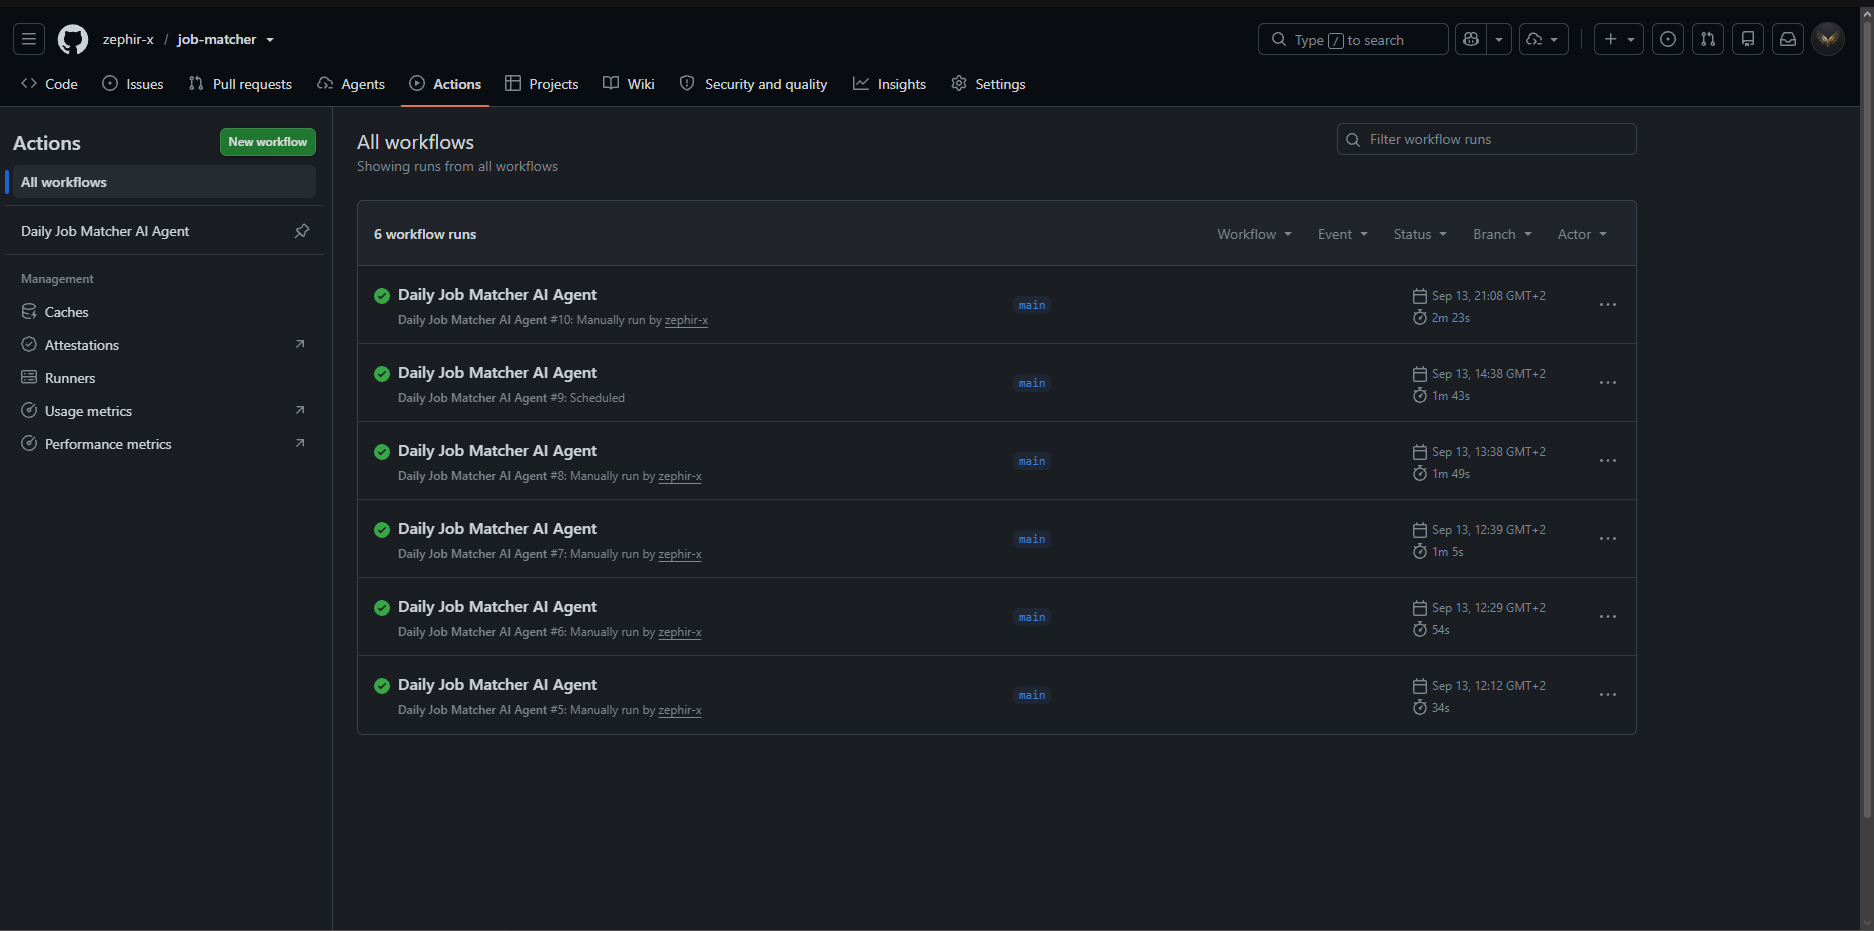
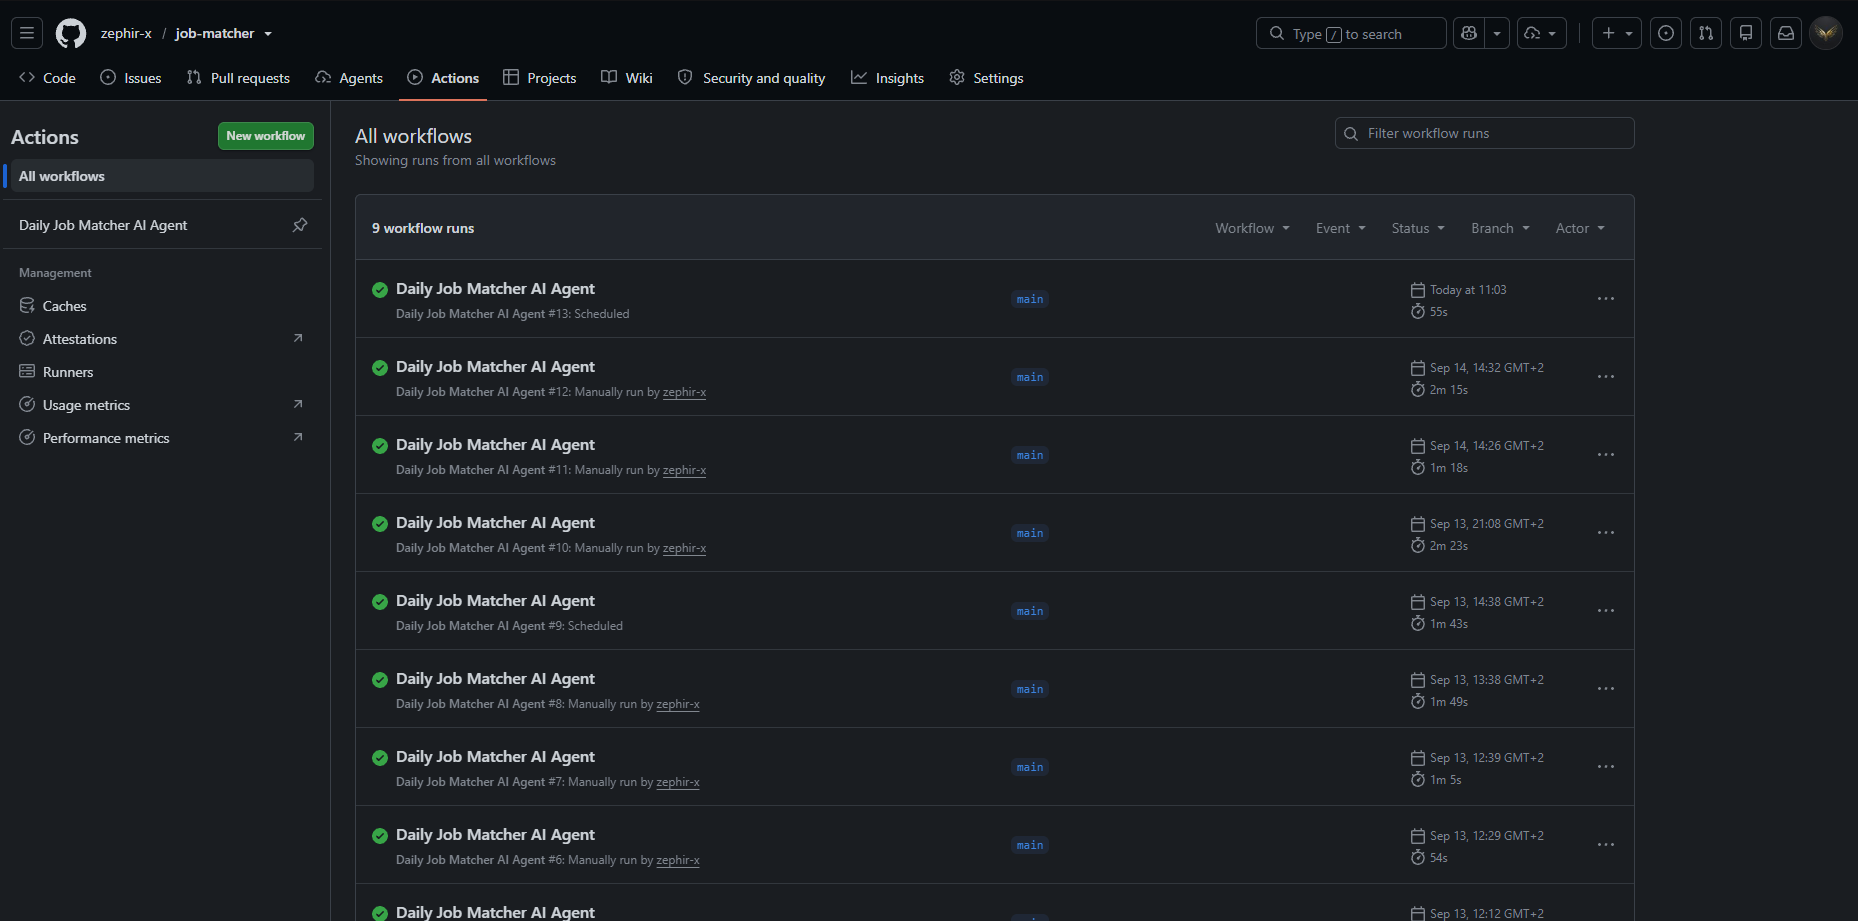
feat(config): externalize AI model selection to GitHub Secrets and appsettings

diff --git a/README.md b/README.md
@@ -111,6 +111,7 @@ The agent is designed to be "Zero-Infrastructure". Just fork and configure:
 1.  **Secrets Configuration:** Navigate to `Settings -> Secrets and variables -> Actions` and add the following secrets:
     *   `CANDIDATE_PROFILE`: Raw JSON content of your `profile.json`.
     *   `GEMINI_API_KEY`: Your API key from Google AI Studio.
+    *   `AI_MODEL`: Specific model version you want to use.
     *   `DISCORD_WEBHOOK_URL`: The URL for your Discord channel.
     *   `TARGET_KEYWORDS`: e.g., `.NET, C#, Azure`.
     *   `TARGET_ROLES`: e.g., `Junior, Intern`.
